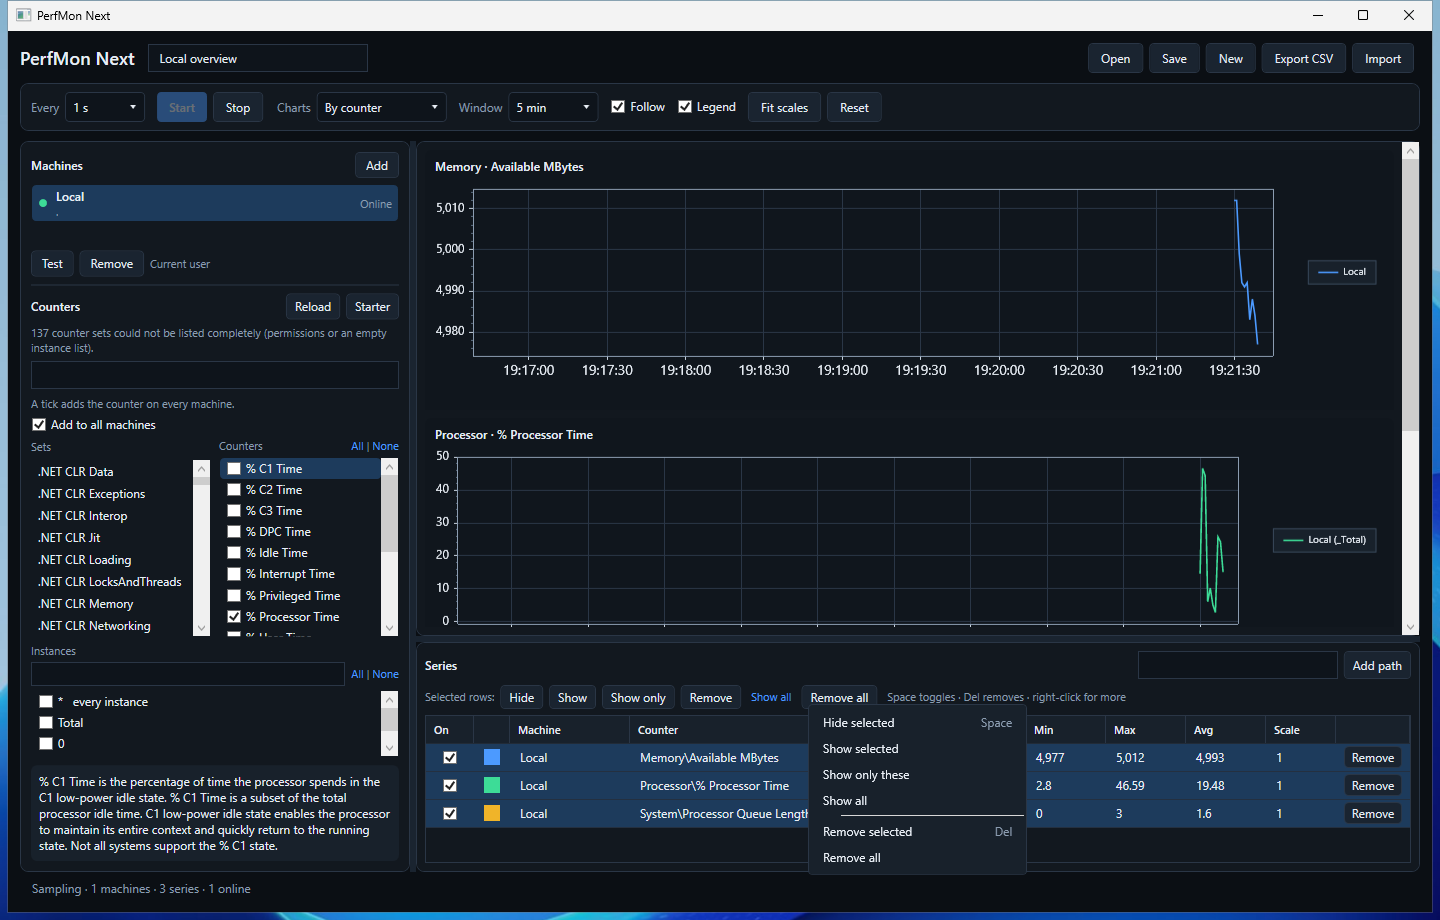
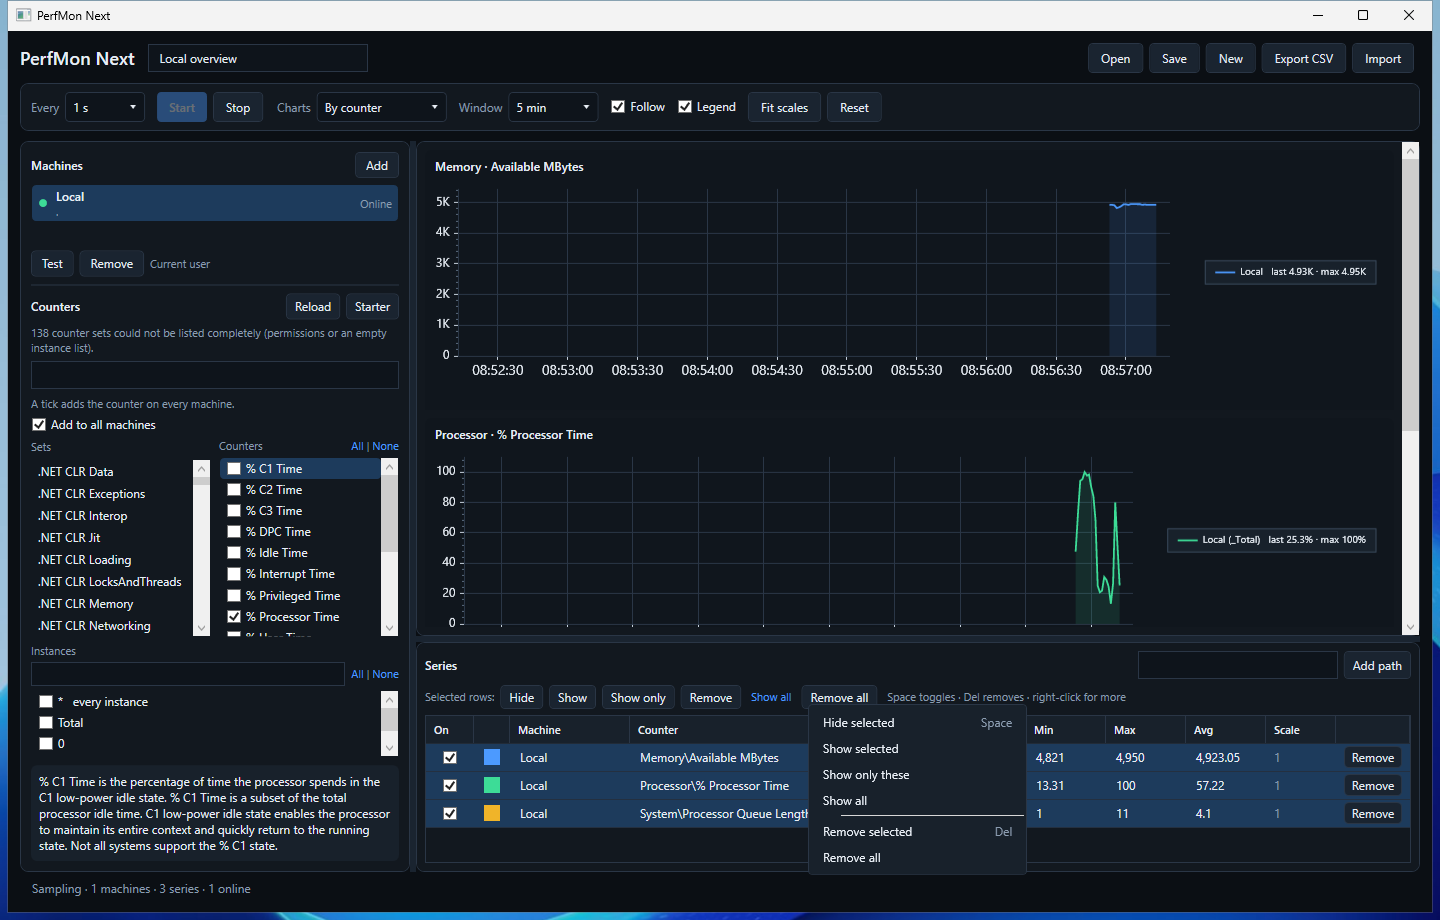
Docs for v0.3.4: hover crosshair, Y from 0, Fit scales and Reset explained; add hover screenshot.

diff --git a/docs/user-guide.md b/docs/user-guide.md
@@ -18,9 +18,25 @@ Keyboard shortcuts:
 
 A new session starts with a **Local overview** workspace: this computer (`.`) and `Processor\% Processor Time` (`_Total`), `Memory\Available MBytes`, and `System\Processor Queue Length`. Press **Start** or **F5**. Rate counters show a value on the second interval.
 
-**Follow** keeps the time axis on the latest samples. Turn it off, then drag to pan and use the wheel to zoom. **Reset** (next to **Fit scales**) drops your zoom and pan on every chart and turns **Follow** back on. **Fit scales** picks a power-of-ten factor so each series lands near 10–100. The scale is for display only; CSV export stores raw values.
+**Follow** keeps the time axis on the latest samples. Turn it off, then drag to pan and use the wheel to zoom.
 
-**Legend** shows a compact legend to the right of each chart: up to six entries, then "+N more". Uncheck it to hide the legend on every chart; the colors stay visible in the series table.
+The Y axis starts at 0 for counters that never go negative, with a little headroom above the peak. It only goes below 0 when a series really has negative values. Large values are labelled compactly (for example 250K or 1.2G).
+
+### Hover
+
+![Crosshair and hover card on a live chart](screenshots/hover-tooltip.png)
+
+Point at a chart and a dashed crosshair follows the mouse. A card shows the sample time and, for every series on that chart, its color, name, and value at the nearest sample. Values are always real (never scaled). Numbers under 10,000 are shown in full; bigger ones are shown compactly, followed by the full number, for example `12.3M B/s (12,345,678)`. A unit is added when the counter name implies one (`B/s` for Bytes/sec, `%`, `MB`, `/s`). The card snaps to the nearest sample, so if you point at a gap before the first sample it shows that first sample and its time.
+
+### Fit scales and Reset
+
+Each series has a display **Scale** factor (default 1). It only changes how the line is drawn. The series table, the hover card, and CSV export always show real values.
+
+**Fit scales** is for charts that mix series of very different size, for example a busy and an idle network adapter in one chart. It magnifies the smaller series by a power of ten (×10, ×1000, …) so they are visible next to the largest one, which stays ×1 so the axis keeps real units. A chart with one series, or with series within 10× of each other, is not changed, and the status bar says so. A scaled series shows its factor in two places: the legend (for example `node01 ×1000`) and the highlighted **Scale** column. You can also type a factor there, such as `0.001` or `1e-6`.
+
+**Reset** puts everything back to the default view: every scale factor back to 1, every hidden series shown again, zoom and pan cleared (Y from 0 again), and **Follow** turned on. It does not remove series or machines.
+
+**Legend** shows a compact legend to the right of each chart: up to six entries, each with its last and max value, then "+N more". Uncheck it to hide the legend on every chart; the colors stay visible in the series table.
 
 **Charts → Table only** turns the charts off and gives the whole right pane to the series table. Sampling, statistics, and CSV export keep working. Use it when you watch many counters and only need the numbers. Pick a grouping again to bring the charts back.
 
@@ -38,7 +54,7 @@ Select several rows with Shift-click or Ctrl-click (or **Ctrl+A**), then use the
 - **Remove**: stop collecting the selected series.
 - **Remove all**: remove every counter and series at once and untick everything in the picker, so you can start a fresh selection. The machines list is not changed. If more than three series would go, PerfMon Next asks first.
 
-Keys in the table: **Space** toggles the selection (if any selected series is visible, they are all hidden; otherwise they are all shown) and **Delete** removes it. Click the color swatch to cycle a series color, and type into **Scale** to set a display factor.
+Keys in the table: **Space** toggles the selection (if any selected series is visible, they are all hidden; otherwise they are all shown) and **Delete** removes it. Click the color swatch to cycle a series color, and type into **Scale** to set a display factor (see [Fit scales and Reset](#fit-scales-and-reset)).
 
 ## Counter picker
 

diff --git a/README.md b/README.md
@@ -8,7 +8,8 @@ This repository holds **public documentation and signed releases** only. The sou
 
 - Live charts grouped by counter, by machine, or combined, plus a series table (last, min, max, average, scale)
 - **Table only** mode that turns the charts off and keeps the series report updating, handy with many series
-- Compact chart legend (up to 6 entries plus "+N more") that you can switch off, a readable time axis, and **Reset** to return to the live view
+- Grafana-style charts: a crosshair with a hover card showing the time and every series' real value (K/M/G with units), a Y axis that starts at 0, compact K/M/G ticks, and a legend with last and max
+- Compact chart legend (up to 6 entries plus "+N more") that you can switch off, a readable time axis, and **Reset** to put every chart back to the default view
 - Bulk work in the series table: multi-select rows, then **Hide**, **Show**, **Show only**, or **Remove** them (also on the right-click menu; **Space** toggles, **Delete** removes), or **Remove all** to start over with the same machines
 - Bulk selection in the picker: **All** / **None**, Shift-click ranges, **Ctrl+A**, and an instance filter
 - Type a **cluster name** in Add machine and every node of that failover cluster is added automatically
@@ -42,7 +43,7 @@ The released ZIP is self-contained. You do not need to install the .NET 8 deskto
 1. Download and unzip the release, then start `PerfMonNext.exe`.
 2. A default **Local overview** workspace is already set up with this computer (`.`) and three counters: `Processor\% Processor Time` (`_Total`), `Memory\Available MBytes`, and `System\Processor Queue Length`.
 3. Press **Start** (or **F5**). The first sample of a rate counter is discarded, so values typically appear on the second interval (about one more second at the default 1 s interval).
-4. Use **Follow** to keep the time axis on the latest samples. Turn it off to pan (drag) and zoom (mouse wheel). **Fit scales** picks a power-of-ten factor so each series sits near 10–100; CSV export still stores raw values.
+4. Point at a chart to see the time and the value of every series under the crosshair. Use **Follow** to keep the time axis on the latest samples; turn it off to pan (drag) and zoom (mouse wheel). **Reset** returns every chart to the default view. **Fit scales** helps when one chart mixes big and small series (see the [user guide](docs/user-guide.md#fit-scales-and-reset)). CSV export always stores raw values.
 5. Add more counters from the picker on the left, or paste a path such as `\Processor(_Total)\% Processor Time` and click **Add path**.
 6. **Ctrl+S** saves the workspace, **Ctrl+O** opens one.
 
